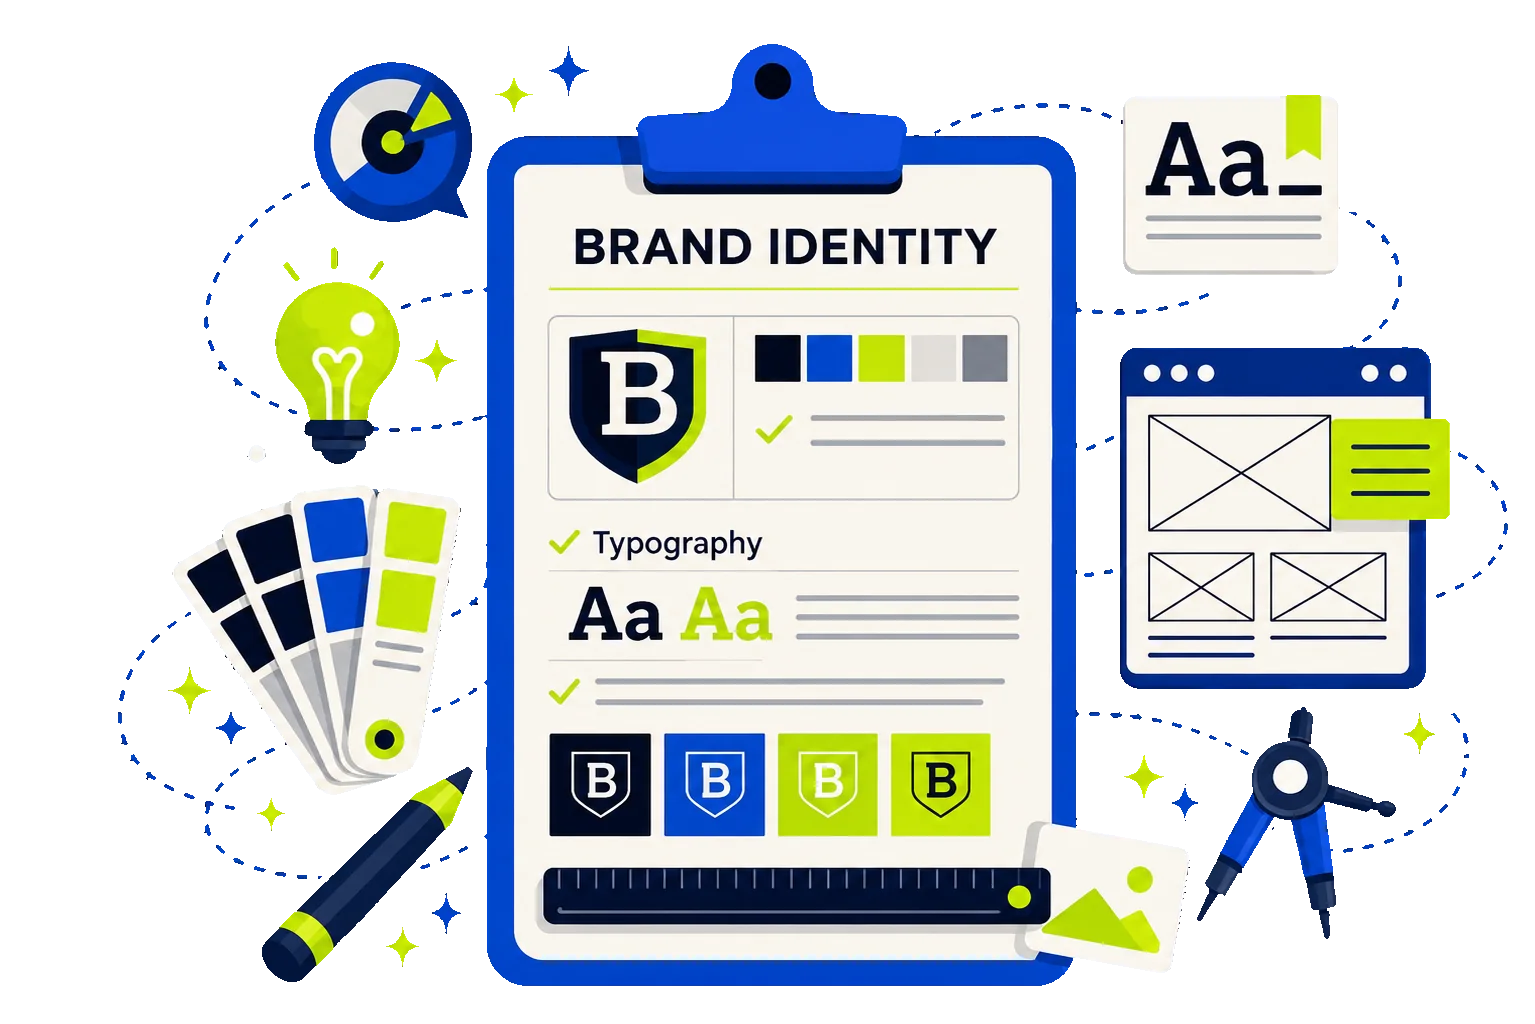
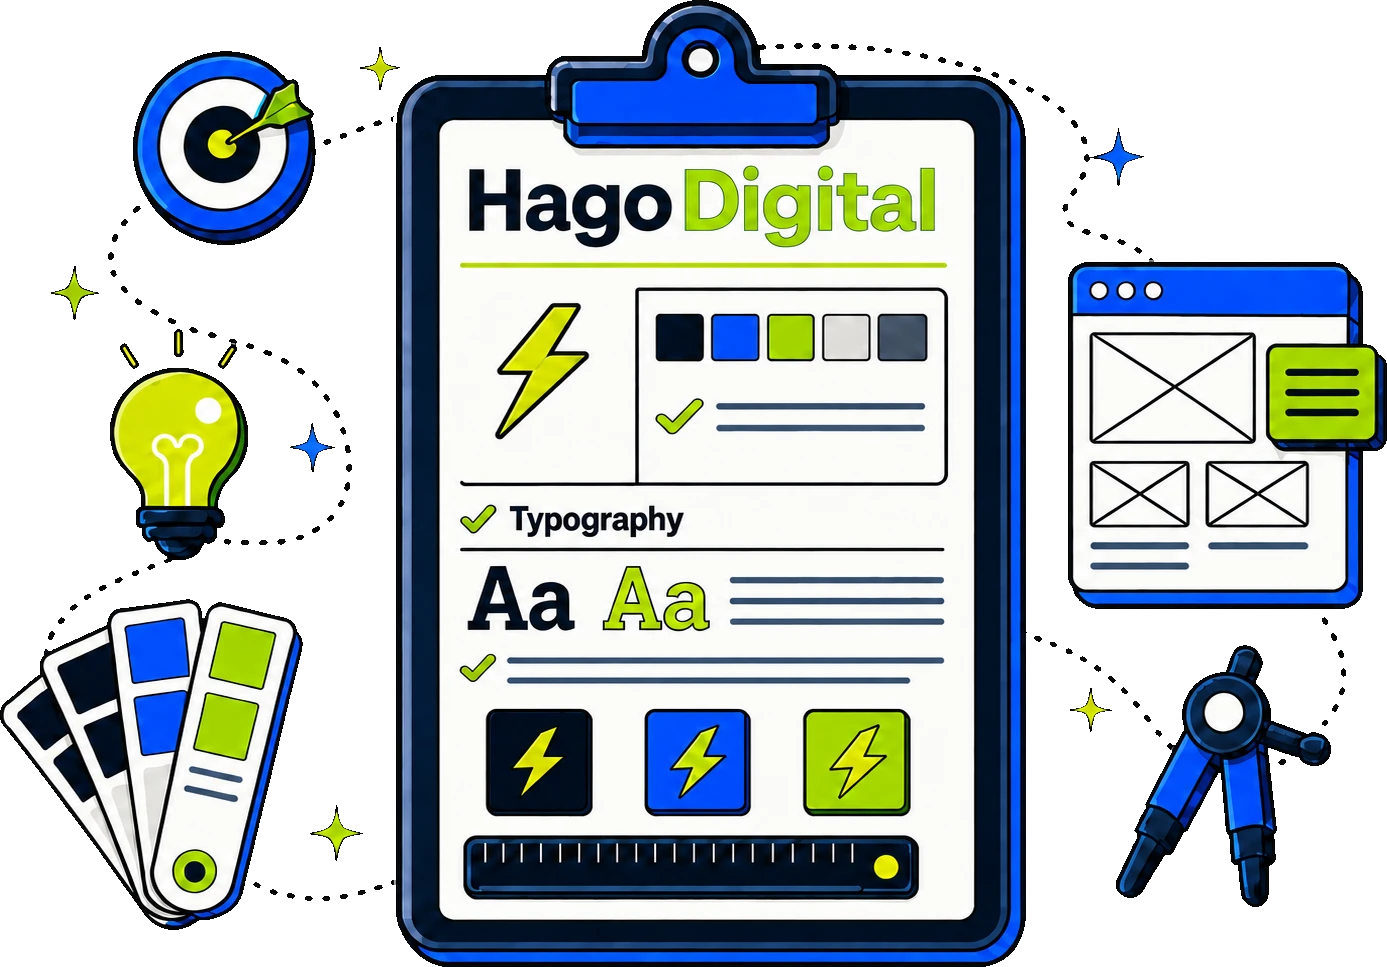
Deploy: sync site from workspace @ a82b7de

diff --git a/es/index.html b/es/index.html
@@ -153,7 +153,7 @@
     </div>
     <figure data-rise="right">
       <img src="../assets/brand-identity.webp"
-           alt="Tablero de identidad de marca: portapapeles con versiones del logo, paleta de color, muestras tipogr&aacute;ficas, abanico de colores y una maqueta de p&aacute;gina.">
+           alt="Tablero de identidad de marca: un portapapeles con el logotipo de HagoDigital, paleta de color, muestras tipogr&aacute;ficas y fichas de iconos, rodeado de un abanico de colores, una diana, una bombilla, una maqueta de p&aacute;gina y un comp&aacute;s.">
     </figure>
   </div>
 </section>
@@ -163,7 +163,7 @@
   <div class="shell row">
     <figure data-rise="left">
       <img src="../assets/websites.webp"
-           alt="Ilustraci&oacute;n de un sitio de HagoDigital abierto en un port&aacute;til, con maquetas de p&aacute;gina y un gr&aacute;fico de b&uacute;squeda alrededor.">
+           alt="Ilustraci&oacute;n de un sitio de HagoDigital abierto en un port&aacute;til, rodeado de ventanas de navegador, una maqueta de p&aacute;gina, una lupa sobre un gr&aacute;fico ascendente y un aviso de carrito.">
     </figure>
     <div class="copy" data-rise>
       <span class="n">02</span>
@@ -181,8 +181,8 @@
 </section>
 
 <!-- ================= 03 GOOGLE — asset 10 — TEXT / IMAGE =================
-     Asset 10 is a concept illustration. Its embedded 5 stars, "238 reviews",
-     "(299)" and phone number are mock-up content: never repeated in HTML,
+     Asset 10 is a concept illustration. Its embedded 5 stars, "(279 reviews)"
+     (twice) and the phone number 125 455 7830 are mock-up content: never repeated in HTML,
      never presented as results, never actionable.
      The visible caption that said so was REMOVED 2026-08-07 at JP's direction.
      That is a decision, not an oversight — do not reinstate it without asking.
@@ -204,7 +204,7 @@
     </div>
     <figure data-rise="right">
       <img src="../assets/google-presence.webp"
-           alt="Ilustraci&oacute;n conceptual de un negocio apareciendo en la b&uacute;squeda de Google y en el perfil de empresa.">
+           alt="Ilustraci&oacute;n conceptual de un tel&eacute;fono con una b&uacute;squeda de Google y la ficha de perfil de empresa de un negocio de ejemplo, rodeada de un marcador de mapa, un cohete y una insignia de rese&ntilde;as.">
     </figure>
   </div>
 </section>

diff --git a/index.html b/index.html
@@ -157,7 +157,7 @@
     </div>
     <figure data-rise="right">
       <img src="assets/brand-identity.webp"
-           alt="Brand identity board: a clipboard with logo lockups, a colour palette, type samples, a swatch fan and a page layout.">
+           alt="Brand identity board: a clipboard carrying the HagoDigital wordmark, a colour palette, type samples and icon tiles, with a swatch fan, a target, a lightbulb, a page layout and a compass around it.">
     </figure>
   </div>
 </section>
@@ -167,7 +167,7 @@
   <div class="shell row">
     <figure data-rise="left">
       <img src="assets/websites.webp"
-           alt="Illustration of a HagoDigital website open on a laptop, with page layouts and a search graphic around it.">
+           alt="Illustration of a HagoDigital website open on a laptop, surrounded by browser windows, a page wireframe, a magnifier over a rising chart and a cart notification.">
     </figure>
     <div class="copy" data-rise>
       <span class="n">02</span>
@@ -185,8 +185,8 @@
 </section>
 
 <!-- ================= 03 GOOGLE — asset 10 — TEXT / IMAGE =================
-     Asset 10 is a concept illustration. Its embedded 5 stars, "238 reviews",
-     "(299)" and phone number are mock-up content: never repeated in HTML,
+     Asset 10 is a concept illustration. Its embedded 5 stars, "(279 reviews)"
+     (twice) and the phone number 125 455 7830 are mock-up content: never repeated in HTML,
      never presented as results, never actionable.
      The visible caption that said so was REMOVED 2026-08-07 at JP's direction.
      That is a decision, not an oversight — do not reinstate it without asking.
@@ -208,7 +208,7 @@
     </div>
     <figure data-rise="right">
       <img src="assets/google-presence.webp"
-           alt="Concept illustration of a business appearing across Google search and business profile interfaces.">
+           alt="Concept illustration of a phone showing a Google search and the business profile card of a placeholder business, with a map pin, a rocket and a review badge around it.">
     </figure>
   </div>
 </section>
